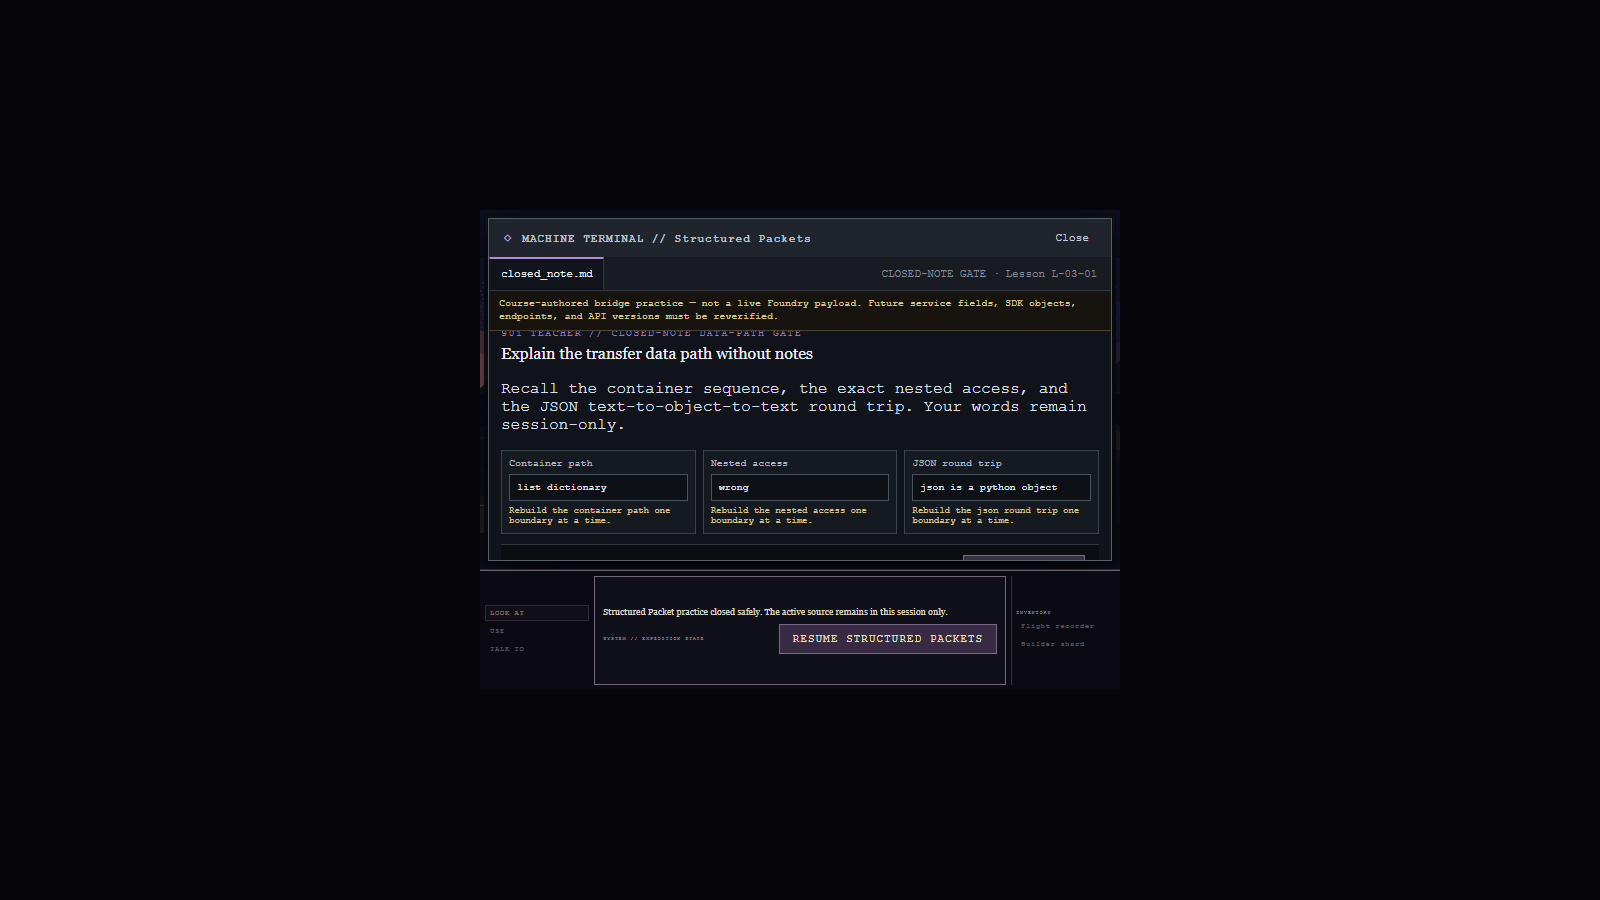
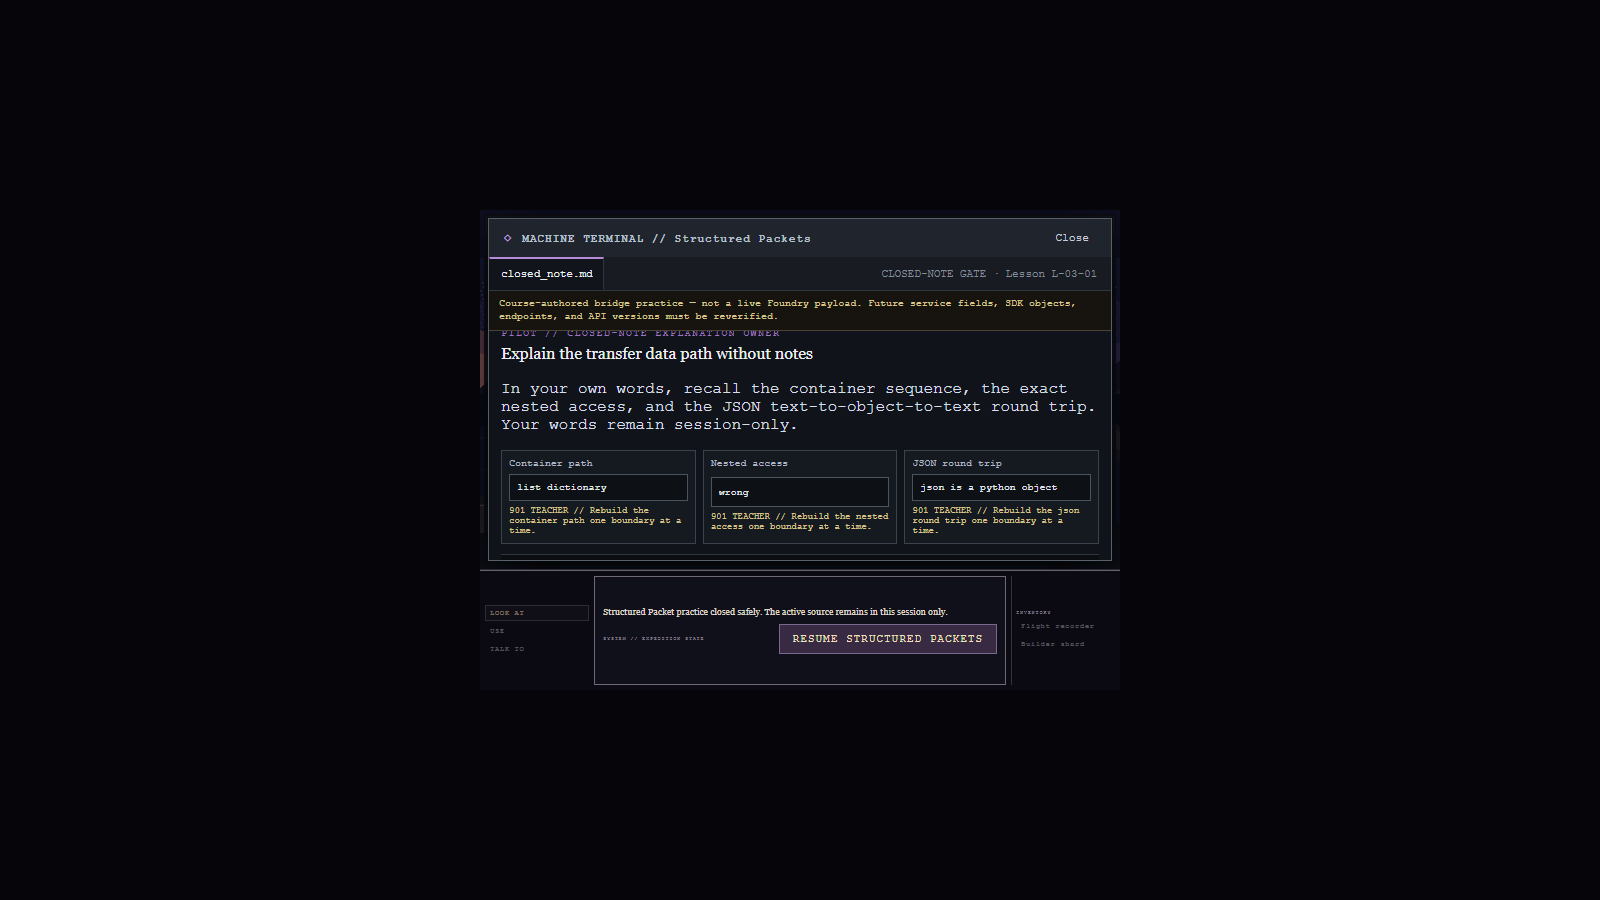
Round 10 step 5 Exercise Agent checkpoint

diff --git a/horizon-archive-game/src/App.jsx b/horizon-archive-game/src/App.jsx
@@ -93,11 +93,12 @@ import {
 import {
   evaluateStructuredPacketExplanation,
   evaluateStructuredPacketSource,
+  getStructuredExplanationFeedback,
+  getStructuredPacketFeedback,
   sanitizeStructuredPacketEvidence,
   structuredPacketChecks,
   structuredPacketExercise,
   structuredPacketExplanationDimensions,
-  structuredPacketRemediation,
   structuredPacketStarters,
   updateStructuredPacketEvidence,
 } from "./structuredPacketExercise.js";
@@ -320,6 +321,8 @@ export function App() {
   const [structuredPacketSession, setStructuredPacketSession] = useState(null);
   const [structuredPacketEvidence, setStructuredPacketEvidence] = useState(null);
   const terminalTriggerRef = useRef(null);
+  const continueButtonRef = useRef(null);
+  const focusContinueAfterStructuredRef = useRef(false);
 
   function setDialogue(text, owner = "pilot") {
     setDialogueText(text);
@@ -379,6 +382,12 @@ export function App() {
       }));
     }
   }, [mode, sceneIndex, completed, pendingAdvance, scene.id, exerciseEvidence, workloadEvidence, evidencePacketMastery, routeMarkerMastery, calibrationMastery, responsibleAIEvidence, modelChoiceEvidence, structuredPacketEvidence]);
+
+  useLayoutEffect(() => {
+    if (!focusContinueAfterStructuredRef.current || terminalOpen || structuredPacketEvidence?.masteryStatus !== "mastered") return;
+    focusContinueAfterStructuredRef.current = false;
+    continueButtonRef.current?.focus({ preventScroll: true });
+  }, [terminalOpen, structuredPacketEvidence?.masteryStatus]);
 
   function beginNewGame() {
     localStorage.removeItem(SAVE_KEY);
@@ -1027,6 +1036,7 @@ export function App() {
 
   function acknowledgeStructuredMastery() {
     if (!structuredPacketSession?.explanationResult?.passed || !structuredPacketSession.ownershipConfirmed || !structuredPacketEvidence?.confidence) return;
+    focusContinueAfterStructuredRef.current = true;
     setStructuredPacketEvidence((previous) => updateStructuredPacketEvidence(previous, { form: "explanation", masteryStatus: "mastered", clearMisconceptionTags: true }));
     setStructuredPacketSession(null);
     setTerminalOpen(false);
@@ -1805,18 +1815,19 @@ export function App() {
               <p className="model-choice-boundary">Course-authored bridge practice — not a live Foundry payload. Future service fields, SDK objects, endpoints, and API versions must be reverified.</p>
               {structuredPacketSession.phase === "explanation" ? (
                 <form className="structured-packet-explanation" onSubmit={checkStructuredExplanation}>
-                  <header><p className="pane-label">901 TEACHER // CLOSED-NOTE DATA-PATH GATE</p><h2>Explain the transfer data path without notes</h2><p>Recall the container sequence, the exact nested access, and the JSON text-to-object-to-text round trip. Your words remain session-only.</p></header>
+                  <header><p className="pane-label">PILOT // CLOSED-NOTE EXPLANATION OWNER</p><h2>Explain the transfer data path without notes</h2><p>In your own words, recall the container sequence, the exact nested access, and the JSON text-to-object-to-text round trip. Your words remain session-only.</p></header>
                   <div className="structured-explanation-fields">
                     {structuredPacketExplanationDimensions.map((dimension) => {
                       const fieldResult = structuredPacketSession.explanationResult?.correctness[dimension];
                       const feedbackId = `structured-explanation-${dimension}-feedback`;
                       const labels = { container_path: "Container path", nested_access: "Nested access", json_round_trip: "JSON round trip" };
-                      return <label key={dimension}><span>{labels[dimension]}</span><input aria-label={`Closed-note ${labels[dimension]}`} aria-invalid={structuredPacketSession.explanationResult ? !fieldResult : undefined} aria-describedby={structuredPacketSession.explanationResult ? feedbackId : undefined} autoComplete="off" value={structuredPacketSession.explanationResponse[dimension]} onChange={(event) => setStructuredPacketSession({ ...structuredPacketSession, explanationResponse: { ...structuredPacketSession.explanationResponse, [dimension]: event.target.value }, explanationResult: null, ownershipConfirmed: false })} />{structuredPacketSession.explanationResult && <small id={feedbackId}>{fieldResult ? "Data path recalled." : `Rebuild the ${labels[dimension].toLowerCase()} one boundary at a time.`}</small>}</label>;
+                      return <label key={dimension}><span>{labels[dimension]}</span><input aria-label={`Closed-note ${labels[dimension]}`} aria-invalid={structuredPacketSession.explanationResult ? !fieldResult : undefined} aria-describedby={structuredPacketSession.explanationResult ? feedbackId : undefined} autoComplete="off" value={structuredPacketSession.explanationResponse[dimension]} onChange={(event) => setStructuredPacketSession({ ...structuredPacketSession, explanationResponse: { ...structuredPacketSession.explanationResponse, [dimension]: event.target.value }, explanationResult: null, ownershipConfirmed: false })} />{structuredPacketSession.explanationResult && <small id={feedbackId}>{fieldResult ? "SYSTEM // Dimension confirmed." : `901 TEACHER // Rebuild the ${labels[dimension].toLowerCase()} one boundary at a time.`}</small>}</label>;
                     })}
                   </div>
                   <section className="terminal-console structured-packet-output" aria-labelledby="structured-explanation-output-heading">
                     <div className="console-heading-row"><strong id="structured-explanation-output-heading">SYSTEM // CLOSED-NOTE VALIDATOR</strong><button className="run-action" type="submit" disabled={structuredPacketExplanationDimensions.some((dimension) => !structuredPacketSession.explanationResponse[dimension])}>Check data path</button></div>
-                    <div className={structuredPacketSession.explanationResult ? "console-feedback active" : "console-feedback"} role="status" aria-live="polite">{structuredPacketSession.explanationResult ? `${structuredPacketSession.explanationResult.score}/3 · ${structuredPacketSession.explanationResult.passed ? "Complete data path confirmed." : "Trace dictionary keys, list indexes, and the serialization boundary separately."}` : "No source or answer choices are shown."}</div>
+                    <div className={structuredPacketSession.explanationResult ? "console-feedback active" : "console-feedback"} role="status" aria-live="polite">{getStructuredExplanationFeedback(structuredPacketSession.explanationResult).systemScore}</div>
+                    {getStructuredExplanationFeedback(structuredPacketSession.explanationResult).teacherRemediation && <p className="teacher-remediation"><strong>901 TEACHER // EXPLANATION REMEDIATION</strong><span>{getStructuredExplanationFeedback(structuredPacketSession.explanationResult).teacherRemediation}</span></p>}
                     {structuredPacketSession.explanationResult?.passed && <><label className="ownership-confirmation"><input type="checkbox" checked={structuredPacketSession.ownershipConfirmed} onChange={(event) => setStructuredPacketSession({ ...structuredPacketSession, ownershipConfirmed: event.target.checked })} />I produced this data-path explanation myself without notes.</label><fieldset className="confidence-group"><legend>Confidence after both forms</legend>{["low", "medium", "high"].map((value) => <label key={value}><input type="radio" name="structured-mastery-confidence" checked={structuredPacketEvidence?.confidence === value} onChange={() => setStructuredPacketEvidence((previous) => updateStructuredPacketEvidence(previous, { confidence: value }))} />{value}</label>)}</fieldset><button className="confirm-action" type="button" disabled={!structuredPacketSession.ownershipConfirmed || !structuredPacketEvidence?.confidence} onClick={acknowledgeStructuredMastery}>Acknowledge strict mastery</button></>}
                   </section>
                 </form>
@@ -1825,7 +1836,7 @@ export function App() {
               ) : (
                 <form className="structured-packet-form" onSubmit={runStructuredPacket}>
                   <aside className="task-pane"><p className="pane-label">{structuredPacketSession.form === "transfer" ? "FRESH TRANSFER" : "PRIMARY"} · PILOT // SOURCE OWNER</p><h2>Trace nested structure</h2><p><strong>Dictionary</strong>: string key. <strong>List</strong>: numeric index. <strong>JSON</strong>: text until <code>json.loads</code>; <code>json.dumps</code> returns text.</p><ol className="data-path-trace"><li>packet → dictionary</li><li>collection key → list</li><li>numeric index → dictionary</li><li>values key → list/value</li></ol><p>Edit the TODOs. Preserve the supplied packet and derive every printed value.</p></aside>
-                  <div className="structured-editor-stack"><label htmlFor="structured-source">EDITABLE PYTHON · session-only</label><textarea id="structured-source" aria-label="Structured Packet Python source" aria-invalid={structuredPacketSession.result ? !structuredPacketSession.result.passed : undefined} aria-describedby={structuredPacketSession.result ? "structured-status structured-check-list" : undefined} value={structuredPacketSession.source} onChange={(event) => setStructuredPacketSession({ ...structuredPacketSession, source: event.target.value, result: null })} autoCapitalize="off" autoCorrect="off" spellCheck="false" /><section className="terminal-console structured-packet-output" aria-labelledby="structured-output-heading"><div className="console-heading-row"><strong id="structured-output-heading">SYSTEM // STRICT 8-CHECK VALIDATOR</strong><button className="run-action" type="submit">Run packet</button></div><div id="structured-status" className={structuredPacketSession.result ? "console-feedback active" : "console-feedback"} role="status" aria-live="polite">{structuredPacketSession.result ? `${structuredPacketSession.result.score}/8 · ${structuredPacketSession.result.passed ? "FORM PASS · structure and derived output confirmed." : structuredPacketRemediation(structuredPacketSession.result, structuredPacketSession.hintLevel)}` : "Awaiting a structure-preserving run."}</div>{structuredPacketSession.result && <ul id="structured-check-list" className="structured-checks" aria-label="Structured Packet checks">{structuredPacketChecks.map((check) => <li key={check} data-check-passed={structuredPacketSession.result.checks[check]}>{structuredPacketSession.result.checks[check] ? "PASS" : "REVIEW"} · {check.replaceAll("_", " ")}</li>)}</ul>}{structuredPacketSession.result && !structuredPacketSession.result.passed && <button className="hint-action" type="button" disabled={structuredPacketSession.hintLevel >= 3} onClick={revealStructuredPacketHint}>Reveal next data-path step</button>}{structuredPacketSession.result?.passed && <button className="confirm-action" type="button" onClick={advanceStructuredPacket}>{structuredPacketSession.form === "transfer" ? "Begin closed-note explanation" : "View primary result"}</button>}</section></div>
+                  <div className="structured-editor-stack"><label htmlFor="structured-source">EDITABLE PYTHON · session-only</label><textarea id="structured-source" aria-label="Structured Packet Python source" aria-invalid={structuredPacketSession.result ? !structuredPacketSession.result.passed : undefined} aria-describedby={structuredPacketSession.result ? structuredPacketSession.result.passed ? "structured-status structured-check-list" : "structured-status structured-check-list structured-python-remediation" : undefined} value={structuredPacketSession.source} onChange={(event) => setStructuredPacketSession({ ...structuredPacketSession, source: event.target.value, result: null })} autoCapitalize="off" autoCorrect="off" spellCheck="false" /><section className="terminal-console structured-packet-output" aria-labelledby="structured-output-heading"><div className="console-heading-row"><strong id="structured-output-heading">SYSTEM // STRICT 8-CHECK VALIDATOR</strong><button className="run-action" type="submit">Run packet</button></div><div id="structured-status" className={structuredPacketSession.result ? "console-feedback active" : "console-feedback"} role="status" aria-live="polite">{getStructuredPacketFeedback(structuredPacketSession.result, structuredPacketSession.hintLevel).systemScore}</div>{getStructuredPacketFeedback(structuredPacketSession.result, structuredPacketSession.hintLevel).teacherRemediation && <p id="structured-python-remediation" className="teacher-remediation"><strong>901 TEACHER // PYTHON REMEDIATION</strong><span>{getStructuredPacketFeedback(structuredPacketSession.result, structuredPacketSession.hintLevel).teacherRemediation}</span></p>}{structuredPacketSession.result && <ul id="structured-check-list" className="structured-checks" aria-label="Structured Packet checks">{structuredPacketChecks.map((check) => <li key={check} data-check-passed={structuredPacketSession.result.checks[check]}>{structuredPacketSession.result.checks[check] ? "PASS" : "REVIEW"} · {check.replaceAll("_", " ")}</li>)}</ul>}{structuredPacketSession.result && !structuredPacketSession.result.passed && <button className="hint-action" type="button" disabled={structuredPacketSession.hintLevel >= 3} onClick={revealStructuredPacketHint}>Reveal next data-path step</button>}{structuredPacketSession.result?.passed && <button className="confirm-action" type="button" onClick={advanceStructuredPacket}>{structuredPacketSession.form === "transfer" ? "Begin closed-note explanation" : "View primary result"}</button>}</section></div>
                 </form>
               )}
             </section>
@@ -1985,7 +1996,7 @@ export function App() {
                     <button className="continue-action" data-terminal-focus-fallback onClick={(event) => { terminalTriggerRef.current = event.currentTarget; openStructuredPackets(); }}>{structuredPacketSession ? "Resume Structured Packets" : structuredPacketEvidence?.masteryStatus === "primary_complete" ? "Start Structured Transfer" : structuredPacketEvidence?.masteryStatus === "transfer_complete" ? "Open Structured Closed-Note Gate" : "Start Structured Packets"}</button>
                   )}
                   {pendingAdvance && (scene.id !== "ruins" || structuredPacketEvidence?.masteryStatus === "mastered") && (
-                    <button className="continue-action" data-terminal-focus-fallback onClick={continueJourney}>
+                    <button ref={continueButtonRef} className="continue-action" data-terminal-focus-fallback onClick={continueJourney}>
                       {completed.length === scenes.length ? "Descend to the city" : "Continue"}
                     </button>
                   )}

diff --git a/horizon-archive-game/test/structuredPacketExercise.test.js b/horizon-archive-game/test/structuredPacketExercise.test.js
@@ -1,7 +1,7 @@
 import test from "node:test";
 import assert from "node:assert/strict";
 import { readFileSync } from "node:fs";
-import { evaluateStructuredPacketExplanation, evaluateStructuredPacketSource, sanitizeStructuredPacketEvidence, structuredPacketChecks, updateStructuredPacketEvidence } from "../src/structuredPacketExercise.js";
+import { evaluateStructuredPacketExplanation, evaluateStructuredPacketSource, getStructuredExplanationFeedback, getStructuredPacketFeedback, sanitizeStructuredPacketEvidence, structuredPacketChecks, updateStructuredPacketEvidence } from "../src/structuredPacketExercise.js";
 
 const primaryReference = readFileSync(new URL("../../curriculum/lessons/L-03-01/reference_primary.py", import.meta.url), "utf8");
 const transferReference = readFileSync(new URL("../../curriculum/lessons/L-03-01/reference_transfer.py", import.meta.url), "utf8");
@@ -21,9 +21,24 @@ test("nested operations and hardcoding fail independently", () => {
   assert.equal(hardcoded.checks.derived_output_no_bypass, false);
 });
 
+test("neutral System scoring is separated from Teacher-owned Python remediation", () => {
+  const result = evaluateStructuredPacketSource(primaryReference.replace('packet["observations"].append({"kind": "image", "values": ["arch", "blue"]})', ""), "primary");
+  const feedback = getStructuredPacketFeedback(result, 2);
+  assert.equal(feedback.systemScore, "7/8 · FORM NOT YET COMPLETE.");
+  assert.doesNotMatch(feedback.systemScore, /append|dictionary|bracket/i);
+  assert.match(feedback.teacherRemediation, /appends_record|bracket/i);
+});
+
 test("closed-note data path requires all three dimensions", () => {
   const result = evaluateStructuredPacketExplanation({ container_path: "dictionary list dictionary list value", nested_access: "packet readings 1 values 0", json_round_trip: "wrong" });
   assert.deepEqual(result.correctness, { container_path: true, nested_access: true, json_round_trip: false });
+});
+
+test("closed-note System score stays neutral while Teacher remediation remains separate", () => {
+  const result = evaluateStructuredPacketExplanation({ container_path: "wrong", nested_access: "wrong", json_round_trip: "wrong" });
+  const feedback = getStructuredExplanationFeedback(result);
+  assert.equal(feedback.systemScore, "0/3 · EXPLANATION NOT YET COMPLETE.");
+  assert.match(feedback.teacherRemediation, /dictionary keys, list indexes/i);
 });
 
 test("mastery requires both forms and explanation and stores no source or prose", () => {

diff --git a/horizon-archive-game/src/structuredPacketExercise.js b/horizon-archive-game/src/structuredPacketExercise.js
@@ -114,6 +114,22 @@ export function structuredPacketRemediation(result, level) {
   return `${failed}: keep the Python object separate from JSON text, fix only this operation, then rerun.`;
 }
 
+export function getStructuredPacketFeedback(result, level) {
+  if (!result) return { systemScore: "Awaiting a structure-preserving run.", teacherRemediation: null };
+  return {
+    systemScore: `${result.score}/8 · ${result.passed ? "FORM PASS · all eight checks confirmed." : "FORM NOT YET COMPLETE."}`,
+    teacherRemediation: result.passed ? null : structuredPacketRemediation(result, level),
+  };
+}
+
+export function getStructuredExplanationFeedback(result) {
+  if (!result) return { systemScore: "Awaiting the learner's three-part explanation.", teacherRemediation: null };
+  return {
+    systemScore: `${result.score}/3 · ${result.passed ? "EXPLANATION PASS · all three dimensions confirmed." : "EXPLANATION NOT YET COMPLETE."}`,
+    teacherRemediation: result.passed ? null : "Trace dictionary keys, list indexes, and the serialization boundary separately.",
+  };
+}
+
 function complete(checkCorrectness, form) {
   return structuredPacketChecks.every((check) => checkCorrectness[form]?.[check] === true);
 }

diff --git a/horizon-archive-game/src/styles.css b/horizon-archive-game/src/styles.css
@@ -342,6 +342,8 @@ h1 {
 .structured-explanation-fields label { display: grid; gap: 5px; padding: 7px; color: #aeb7c3; background: #151920; border: 1px solid #39424d; font-size: 0.62rem; }
 .structured-explanation-fields input { width: 100%; min-width: 0; padding: 7px; color: #e0e5eb; background: #0d1015; border: 1px solid #4a5360; font: inherit; }
 .structured-explanation-fields small { color: #d6c28b; font-size: 0.56rem; }
+.teacher-remediation { display: grid; gap: 3px; margin: 6px 0; padding: 6px 8px; color: #d6c28b; background: #1b1812; border-left: 2px solid #b89554; font-size: 0.58rem; line-height: 1.3; }
+.teacher-remediation strong { color: #e4cc92; font-size: 0.55rem; letter-spacing: 0.06em; }
 
 .command-panel {
   position: relative;

diff --git a/Exercise Development/WORK_LOG.md b/Exercise Development/WORK_LOG.md
@@ -1,5 +1,17 @@
 # Exercise Agent Work Log
 
+## 2026-07-12 — EX-L0301 ownership and mastery-focus closure
+
+- **Outcome:** Closed the four concrete Structured Packets handoff defects without starting L-03-02 or L-03-03 gameplay. Neutral `SYSTEM` regions now report only deterministic scores and pass/not-complete state; course-authored Python and explanation guidance appears in separately labeled `901 TEACHER` remediation regions.
+- **Learner ownership:** The closed-note header and instructional prose now identify `PILOT // CLOSED-NOTE EXPLANATION OWNER`. Learner prose remains session-only, while each failed field receives an explicitly Teacher-owned reconstruction cue and each correct dimension receives a neutral System confirmation.
+- **Completion/focus:** Primary and strict-mastery footer messages remain explicitly Teacher-owned. After strict mastery acknowledgement closes the Terminal and reveals Continue, a one-shot layout focus handoff moves keyboard focus directly to the Continue button instead of the removed Terminal trigger or a generic fallback.
+- **Preserved contracts:** Primary 8/8, transfer 8/8, three-part closed-note mastery, confidence and learner ownership confirmation, evidence sanitization/privacy, close/reopen and reload behavior, canonical/narrow presentation, unlimited recovery, and three pairwise-distinct QA captures remain intact.
+- **Files changed:** `horizon-archive-game/src/App.jsx`, `horizon-archive-game/src/structuredPacketExercise.js`, `horizon-archive-game/src/styles.css`, `horizon-archive-game/test/structuredPacketExercise.test.js`, `playtest/e2e-playthrough.mjs`, refreshed transfer/closed-note captures, and this log.
+- **Validation:** 53/53 unit tests pass; production build passes; L-03-01 self-test and both primary/transfer references pass all 8 checks; full title-to-credits E2E passes with zero runtime errors and verifies ownership separation, field associations, strict mastery, Continue focus, privacy, and distinct captures; `git diff --check` passes.
+- **Manifest/E2E register:** The existing `HA-PY-STRUCTURED-PACKETS` mastery contract required no semantic change; the E2E result register now includes it and explicit ownership/focus flags.
+- **Next action:** Player Agent should independently verify screen-reader announcement order for System score → Teacher remediation and keyboard focus after mastery. Exercise work should not proceed into L-03-02/L-03-03 before that audit.
+- **Risks:** The Teacher remediation region adds vertical content after failures; it remains inside the existing scrollable Terminal console, but narrow-screen reading order should receive an independent accessibility pass.
+
 ## 2026-07-12 — L-03-01 Structured Packets complete Terminal gate
 
 - **Outcome:** Added `EX-L0301-STRUCTURED-PACKETS` as the mandatory next ruins Terminal gate after L-02-03 mastery. The complete learner flow requires packaged primary 8/8, fresh transfer 8/8, and a three-part closed-note data-path explanation before `mastered`; the journey cannot advance until this gate passes. No L-03-02 gameplay was started.
